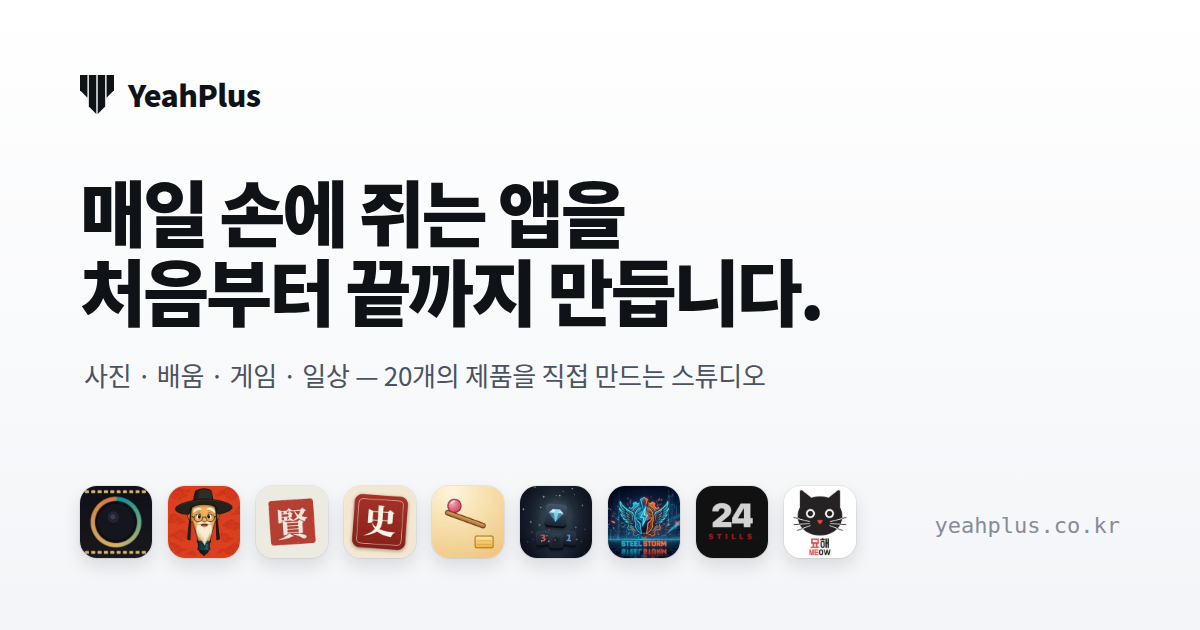
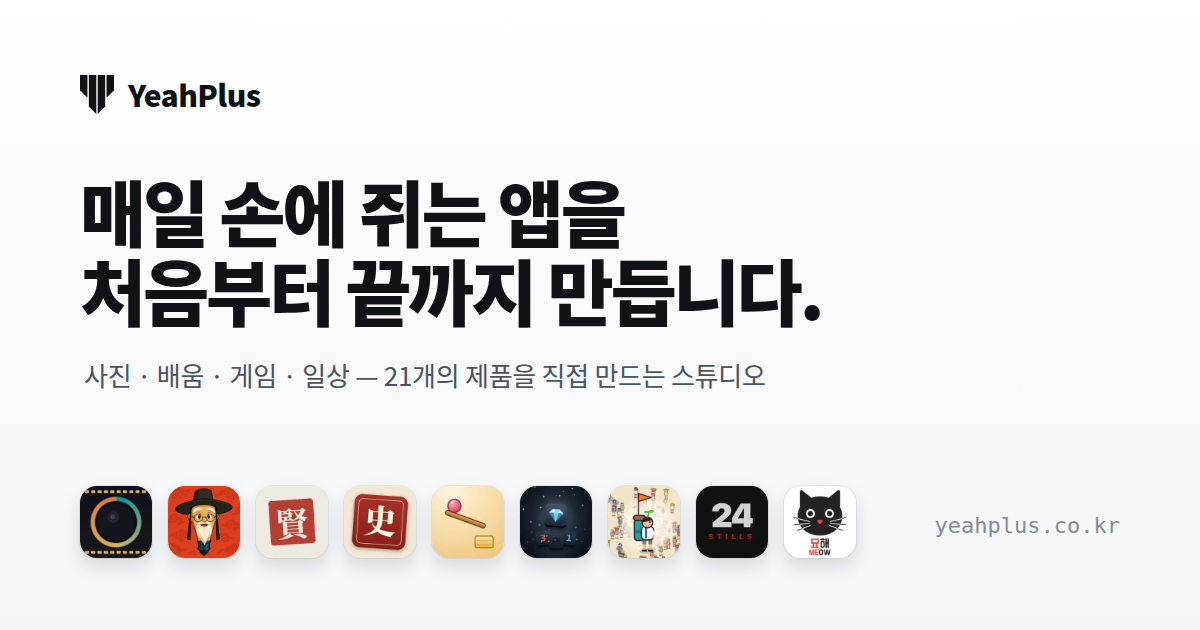
site: 히어로에 묘해·꼬롱, 제품 목록에 꼬롱을 찾아라
- 히어로 부채의 양 끝(MINEFORGE·뚝딱 실험실)을 묘해와 꼬롱을 찾아라로 바꿨다.
  · 꼬롱: hiddenfigure/store_screenshots 의 실제 앱 화면(아침 시장 마을).
  · 묘해: 앱 화면 캡처가 폴더에 없어(screenshots/ 비어 있음, 웹 빌드 없음),
    scripts/make_screenshots.sh 의 스토어 스크린샷 규칙대로 미스틱 보라 바탕에
    공식 캡션 "집에서 찰칵, 바로 작품으로"와 실제 꾸미기 결과물 세 장을 얹어 만들었다.
    실제 캡처가 생기면 public/site/shots/myohae.webp 만 바꾸면 된다.
- 꼬롱을 찾아라를 게임 갈래에 넣었다(준비 중 · kkorong.com · 앱 아이콘).
  메타데이터의 '한 번 사면 끝 — 광고·계정·수집 없음'에 따라 약속을 지키는 유료 앱에도
  넣어, 숫자는 제품 21개·준비 중 10개·약속 앱 9편으로 함께 바뀐다.
- 아이콘 벽을 7×3 격자로, 약속 앱 목록을 5열(모바일 3열)로 맞췄다.
- 메타데이터 설명과 OG 이미지를 21개 기준으로, OG 아이콘 줄에 꼬롱을 넣었다.
- 쓰지 않게 된 shots/contraption.webp 정리.

Claude-Session: https://claude.ai/code/session_01GcxDg8HwpmhQNjcecpaQPK

Changed region(s): [[0.4933, 0.754, 0.5858, 0.9048], [0.3083, 0.573, 0.3392, 0.6032]]

diff --git a/app/(site)/globals.css b/app/(site)/globals.css
@@ -143,7 +143,7 @@ ol, ul { padding: 0; list-style: none; }
 .yp-path li:last-child::before { border-color: var(--yp-accent); background: var(--yp-accent); }
 
 /* 아이콘 벽 — 흩어진 타일이 스크롤에 맞춰 격자로 모인다 */
-.yp-wall { display: grid; grid-template-columns: repeat(5, 1fr); gap: 14px; justify-items: center; }
+.yp-wall { display: grid; grid-template-columns: repeat(7, 1fr); gap: 12px 8px; justify-items: center; }
 .yp-wall-tile { display: block;
   transform: translate(calc(var(--dx) * 13px * (1 - var(--p, 1))), calc(var(--dy) * 15px * (1 - var(--p, 1))))
     rotate(calc(var(--r) * 3deg * (1 - var(--p, 1)))) scale(calc(.86 + .14 * var(--p, 1)));
@@ -152,7 +152,7 @@ ol, ul { padding: 0; list-style: none; }
   box-shadow: 0 0 0 1px rgba(15, 18, 23, .06), 0 8px 18px rgba(15, 18, 23, .1); }
 .yp-icon-mark { display: grid; place-items: center; font-weight: 800; color: #fff; letter-spacing: -.02em;
   background: var(--a); font-family: var(--yp-sans); }
-.yp-wall .yp-icon { width: clamp(46px, 7vw, 68px) !important; height: clamp(46px, 7vw, 68px) !important; }
+.yp-wall .yp-icon { width: clamp(38px, 5vw, 60px) !important; height: clamp(38px, 5vw, 60px) !important; }
 
 /* 영화를 만들던 눈 */
 .yp-vision { display: grid; gap: 14px; }
@@ -172,7 +172,7 @@ ol, ul { padding: 0; list-style: none; }
   padding: 16px 0; border-bottom: 1px solid var(--yp-line); }
 .yp-promise-list b { font-size: 21px; letter-spacing: -.03em; }
 .yp-promise-list span { color: var(--yp-ink-2); font-size: 15.5px; }
-.yp-promise-apps { display: grid; grid-template-columns: repeat(4, minmax(0, 1fr)); gap: 12px; }
+.yp-promise-apps { display: grid; grid-template-columns: repeat(5, minmax(0, 1fr)); gap: 12px 8px; }
 .yp-mini { display: grid; justify-items: center; gap: 6px; font-size: 12.5px; font-weight: 600; color: var(--yp-ink-2); text-align: center;
   line-height: 1.3; }
 .yp-mini:hover { color: var(--yp-ink); }
@@ -318,10 +318,12 @@ ol, ul { padding: 0; list-style: none; }
   .yp-facts { grid-template-columns: repeat(2, 1fr); }
   .yp-facts > div:nth-child(3) { border-left: 0; }
   .yp-facts > div:nth-child(n + 3) { border-top: 1px solid var(--yp-line); }
-  .yp-wall { gap: 10px; }
+  .yp-wall { gap: 8px 4px; }
+  .yp-wall .yp-icon { width: clamp(34px, 10vw, 46px) !important; height: clamp(34px, 10vw, 46px) !important; }
   .yp-looks { grid-template-columns: repeat(3, 1fr); }
   .yp-booth { max-width: 300px; }
   .yp-promise-list li { grid-template-columns: minmax(0, 1fr); gap: 2px; }
+  .yp-promise-apps { grid-template-columns: repeat(3, minmax(0, 1fr)); }
   .yp-timeline li { grid-template-columns: minmax(0, 1fr); gap: 6px; }
   .yp-card { padding: 16px; }
 }

diff --git a/app/(site)/layout.tsx b/app/(site)/layout.tsx
@@ -5,7 +5,7 @@ import { SpeedInsights } from '@vercel/speed-insights/next';
 
 const TITLE = "YeahPlus — 매일 손에 쥐는 앱을 처음부터 끝까지";
 const DESCRIPTION =
-  "예아플러스는 사진과 배움, 놀이에 기술을 더하는 작은 스튜디오입니다. CineLook, 성어서당, 현자의 서재, 조선왕조실록, MINEFORGE를 비롯한 스무 개의 제품을 기획부터 출시까지 직접 만듭니다.";
+  "예아플러스는 사진과 배움, 놀이에 기술을 더하는 작은 스튜디오입니다. CineLook, 성어서당, 현자의 서재, 조선왕조실록, 꼬롱을 찾아라를 비롯한 스물한 개의 제품을 기획부터 출시까지 직접 만듭니다.";
 
 /** JS 가 있을 때만 등장 연출을 켠다 — 없으면 처음부터 모두 보인다. */
 const JS_FLAG = "document.documentElement.classList.add('js')";
@@ -18,7 +18,7 @@ export const metadata: Metadata = {
   },
   description: DESCRIPTION,
   applicationName: "YeahPlus",
-  keywords: ["YeahPlus", "예아플러스", "앱 스튜디오", "CineLook", "성어서당", "현자의 서재", "조선왕조실록", "뚝딱 실험실", "MINEFORGE", "묘해", "24STILLS"],
+  keywords: ["YeahPlus", "예아플러스", "앱 스튜디오", "CineLook", "성어서당", "현자의 서재", "조선왕조실록", "뚝딱 실험실", "MINEFORGE", "꼬롱을 찾아라", "묘해", "24STILLS"],
   alternates: { canonical: "/" },
   openGraph: {
     type: "website",

diff --git a/components/site/Home.tsx b/components/site/Home.tsx
@@ -103,11 +103,11 @@ function Header() {
 /* ─────────────────────────── 히어로 ─────────────────────────── */
 
 const HERO_SHOTS: { f: string; ko: string; en: string }[] = [
-  { f: 'mineforge', ko: 'MINEFORGE 게임 화면', en: 'MINEFORGE game screen' },
+  { f: 'myohae', ko: '묘해 — 고양이 사진 꾸미기 결과', en: 'MYOHAE: decorated cat photos' },
   { f: 'cinelook', ko: 'CineLook 촬영 화면', en: 'CineLook camera screen' },
   { f: 'seodang', ko: '성어서당 이야기 삽화 화면', en: 'Seodang story screen' },
   { f: 'hyunja', ko: '현자의 서재 원탁 화면', en: 'The Sages’ Study round table' },
-  { f: 'contraption', ko: '뚝딱 실험실 퍼즐 화면', en: 'Contraption Lab puzzle screen' },
+  { f: 'kkorong', ko: '꼬롱을 찾아라 시장 장면', en: 'Find Kkorong market scene' },
 ];
 
 function Hero() {

diff --git a/components/site/products.ts b/components/site/products.ts
@@ -98,6 +98,12 @@ export const PRODUCTS: Product[] = [
     descEn: 'Minesweeper where chaining neighbouring digs grows a scoring seam.',
   },
   {
+    id: 'kkorong', cat: 'game', ko: '꼬롱을 찾아라', en: 'Find Kkorong', href: 'https://kkorong.com', status: 'soon',
+    icon: I('kkorong'), accent: '#1f9a8a', promise: true,
+    descKo: '움직이는 군중 속에서 꼬마 여행자 꼬롱을 찾는 관찰 퍼즐. 매일 새로운 오늘의 장면.',
+    descEn: 'Spot a tiny traveler in a moving crowd. An observation puzzle with a new Daily Scene every day.',
+  },
+  {
     id: 'steelstorm', cat: 'game', ko: '스틸스톰 아레나', en: 'SteelStorm Arena', href: '/steelstorm', status: 'live',
     icon: I('steelstorm'), accent: '#1aa6c4', promise: true,
     descKo: '조준은 기체가, 판단은 당신이. 코어 컬러와 3단 변신의 아레나 슈터.',
